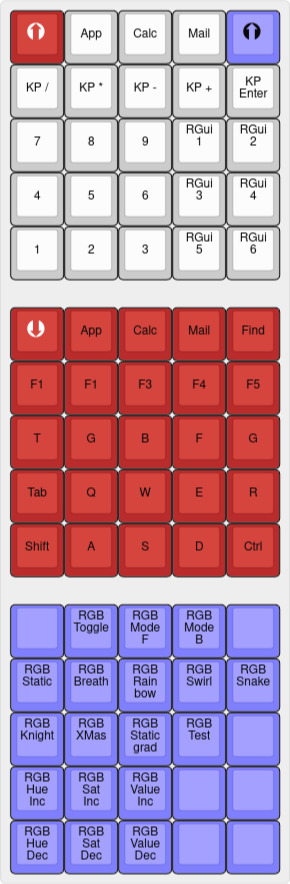
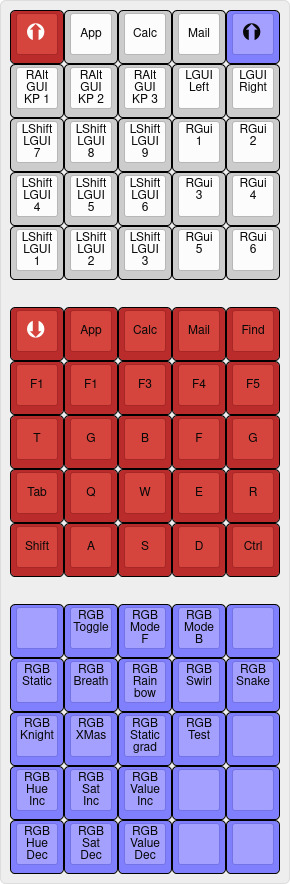
Keymap update and simplifications
- Replaced custom keycodes with build-in modifier makros
- Replaced keycodes with modifier + numbers for better support

Changed region(s): [[0.031, 0.0, 0.9931, 1.0]]

diff --git a/QMK/keymaps/default/keymap.c b/QMK/keymaps/default/keymap.c
@@ -9,22 +9,13 @@ enum layer_names {
     _GAME,
 };
 
-enum custom_keycodes {
-    KC_CUS_1 = SAFE_RANGE,
-    KC_CUS_2,
-    KC_CUS_3,
-    KC_CUS_4,
-    KC_CUS_5,
-    KC_CUS_6,
-};
-
 const uint16_t PROGMEM keymaps[][MATRIX_ROWS][MATRIX_COLS] = {
     [_BASE] = LAYOUT(
-        TG(_GAME),  KC_APP,   KC_CALC,  KC_MAIL,  MO(_BL),
-        KC_PSLS,    KC_PAST,  KC_PMNS,  KC_PPLS,  KC_PENT,
-        KC_KP_7,    KC_KP_8,  KC_KP_9,  KC_CUS_1, KC_CUS_2,
-        KC_KP_4,    KC_KP_5,  KC_KP_6,  KC_CUS_3, KC_CUS_4,
-        KC_KP_1,    KC_KP_2,  KC_KP_3,  KC_CUS_5, KC_CUS_6
+        TG(_GAME),       KC_APP,        KC_CALC,       KC_MAIL,  MO(_BL),
+        RAG(KC_KP_1),    RAG(KC_KP_2),  RAG(KC_KP_3),  LGUI(KC_LEFT),  LGUI(KC_RIGHT),
+        LSG(KC_KP_7),    LSG(KC_KP_8),  LSG(KC_KP_9),  RGUI(KC_KP_1), RGUI(KC_KP_2),
+        LSG(KC_KP_4),    LSG(KC_KP_5),  LSG(KC_KP_6),  RGUI(KC_KP_3), RGUI(KC_KP_4),
+        LSG(KC_KP_1),    LSG(KC_KP_2),  LSG(KC_KP_3),  RGUI(KC_KP_5), RGUI(KC_KP_6)
    ),
     [_BL] = LAYOUT(
         _______,  RGB_TOG,  RGB_MOD, RGB_RMOD, _______,
@@ -41,53 +32,3 @@ const uint16_t PROGMEM keymaps[][MATRIX_ROWS][MATRIX_COLS] = {
         KC_LSFT,  KC_A,     KC_S,     KC_D,     KC_LCTL
     )
 };
-
-// Custom Keycode Processing
-bool process_record_user(uint16_t keycode, keyrecord_t *record) {
-  switch (keycode) {
-    case KC_CUS_1:
-        if (record->event.pressed) {
-            register_code(KC_RGUI);
-            tap_code(KC_KP_1);
-            unregister_code(KC_RGUI);
-        }
-        break;
-    case KC_CUS_2:
-        if (record->event.pressed) {
-            register_code(KC_RGUI);
-            tap_code(KC_KP_2);
-            unregister_code(KC_RGUI);
-        }
-        break;
-    case KC_CUS_3:
-        if (record->event.pressed) {
-            register_code(KC_RGUI);
-            tap_code(KC_KP_3);
-            unregister_code(KC_RGUI);
-        }
-        break;
-    case KC_CUS_4:
-        if (record->event.pressed) {
-            register_code(KC_RGUI);
-            tap_code(KC_KP_4);
-            unregister_code(KC_RGUI);
-        }
-        break;
-    case KC_CUS_5:
-        if (record->event.pressed) {
-            register_code(KC_RGUI);
-            tap_code(KC_KP_5);
-            unregister_code(KC_RGUI);
-        }
-        break;
-    case KC_CUS_6:
-        if (record->event.pressed) {
-            register_code(KC_RGUI);
-            tap_code(KC_KP_6);
-            unregister_code(KC_RGUI);
-        }
-        break;
-    }
-  return true;
-}
-

diff --git a/QMK/lightning25.c b/QMK/lightning25.c
@@ -1,4 +1,4 @@
 // Copyright 2022 Florian Brandner (@Florian Brandner)
 // SPDX-License-Identifier: GPL-2.0-or-later
 
-#include "debroglie_lightning_25.h"
+#include "lightning25.h"

diff --git a/README.md b/README.md
@@ -7,6 +7,12 @@ Another makropad from Aliexpress. 5x5 hotswap sockets with Gateron Reds, Mega32U
  - Keys: Gateron Red
  - Keycaps: Some leftovers
 
+# Howto install:
+
+- Copy or symlink this qmk directory to <QMK>/keyboards/degbroglie/lightning25
+- Build and flash with qmk flash -kb debroglie/lightning25 -km default
+
 ![Makropad](winry_layout.jpg)
 
 [Layout](http://www.keyboard-layout-editor.com/#/gists/80a98d5cfbc8ebb2f1737c184f72df6e)
+
